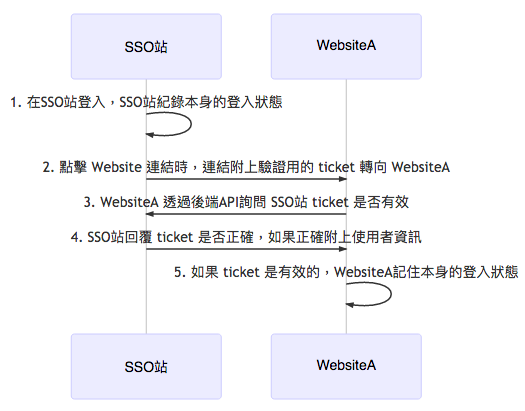
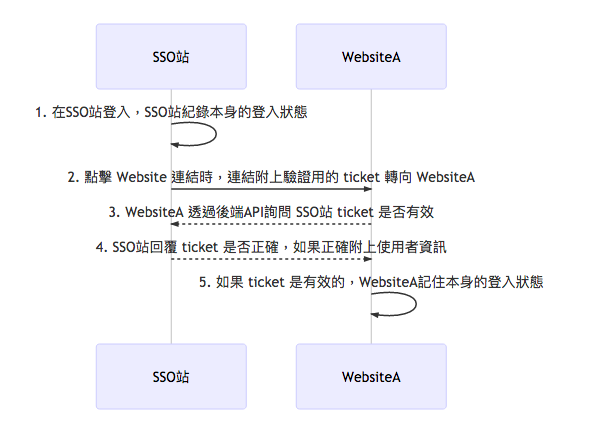
update README

diff --git a/README.md b/README.md
@@ -26,6 +26,8 @@ Demo 帳號
 
 ## 運作流程
 
+※ 以下流程中虛線表示在 backend 運作
+
 ### 從 SSO站 登入並到 WebsiteA：
 
 ![](./README_attachments/login-sequenceDiagram-1.png)
@@ -39,8 +41,8 @@ Demo 帳號
     participant WebsiteA
     SSO站->>SSO站: 1. 在SSO站登入，SSO站紀錄本身的登入狀態
     SSO站->>WebsiteA: 2. 點擊 Website 連結時，連結附上驗證用的 ticket 轉向 WebsiteA
-    WebsiteA->>SSO站: 3. WebsiteA 透過後端API詢問 SSO站 ticket 是否有效
-    SSO站->>WebsiteA: 4. SSO站回覆 ticket 是否正確，如果正確附上使用者資訊
+    WebsiteA-->>SSO站: 3. WebsiteA 透過後端API詢問 SSO站 ticket 是否有效
+    SSO站-->>WebsiteA: 4. SSO站回覆 ticket 是否正確，如果正確附上使用者資訊
     WebsiteA->>WebsiteA: 5. 如果 ticket 是有效的，WebsiteA記住本身的登入狀態
   ```
 </details>
@@ -61,8 +63,8 @@ Demo 帳號
     WebsiteA->>WebsiteA: 1. 檢查自身是否已經是登入狀態
     WebsiteA->>SSO站: 2. 如果是未登入狀態，向SSO站請求登入資訊
     SSO站->>WebsiteA: 3. SSO站附上驗證用的 ticket 轉向 WebsiteA
-    WebsiteA->>SSO站: 4. WebsiteA 透過後端API詢問 SSO站 ticket 是否有效
-    SSO站->>WebsiteA: 5. SSO站回覆 ticket 是否正確，如果正確附上使用者資訊
+    WebsiteA-->>SSO站: 4. WebsiteA 透過後端API詢問 SSO站 ticket 是否有效
+    SSO站-->>WebsiteA: 5. SSO站回覆 ticket 是否正確，如果正確附上使用者資訊
     WebsiteA->>WebsiteA: 6. 如果 ticket 是有效的，WebsiteA記住本身的登入狀態
   ```
 </details>
